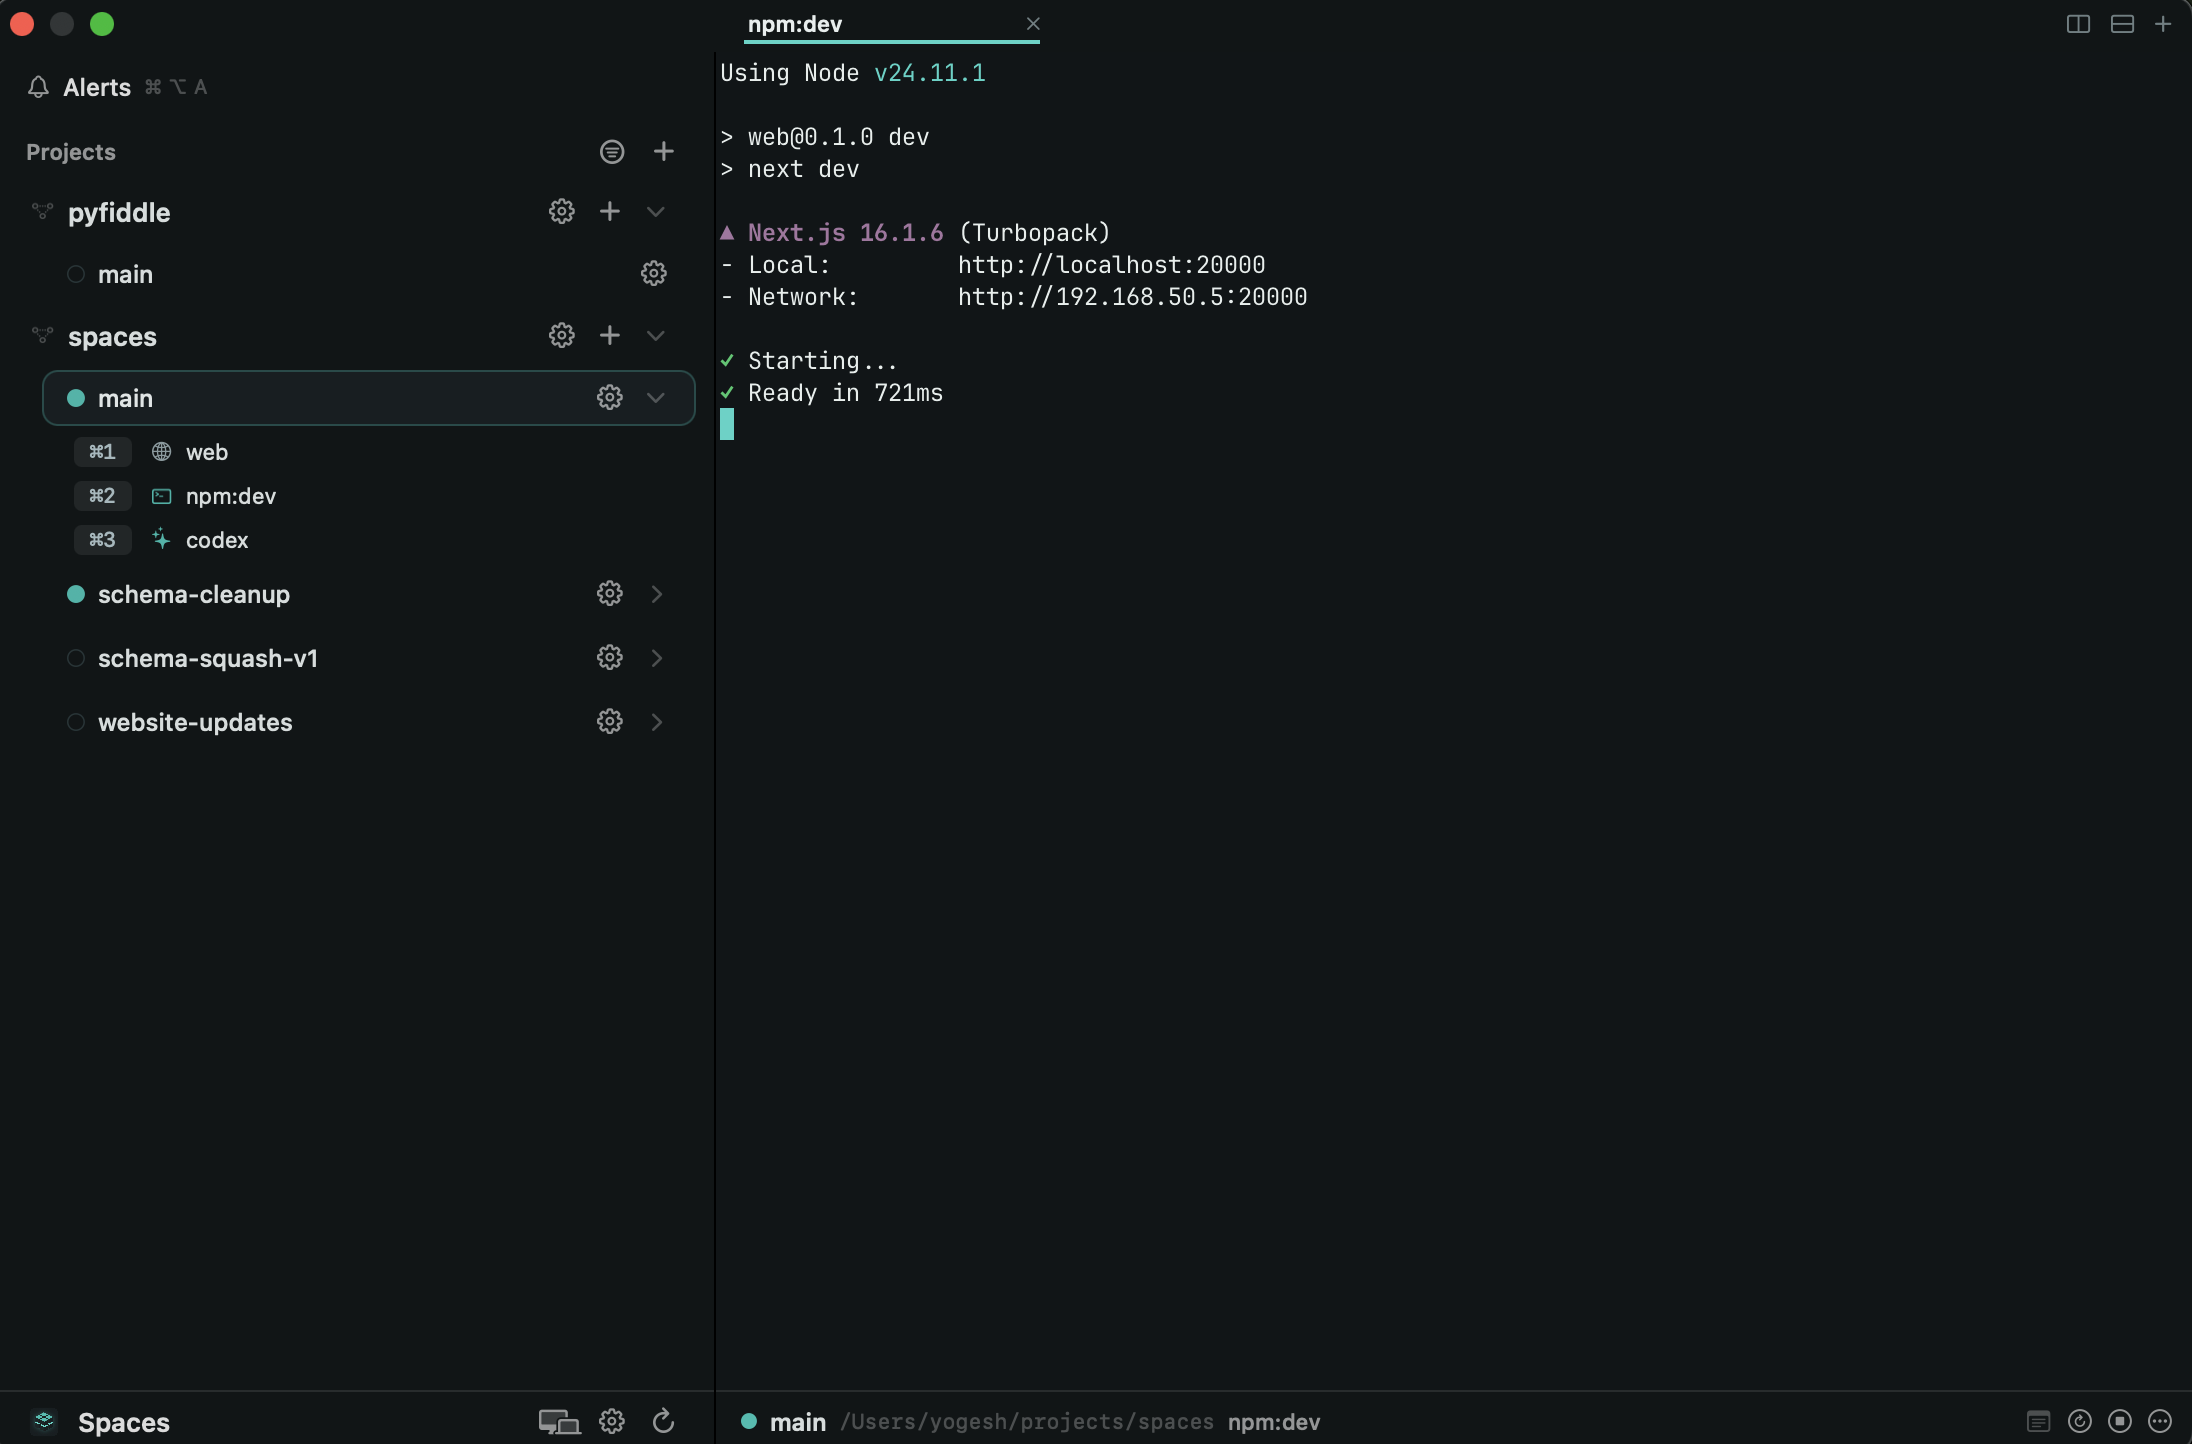
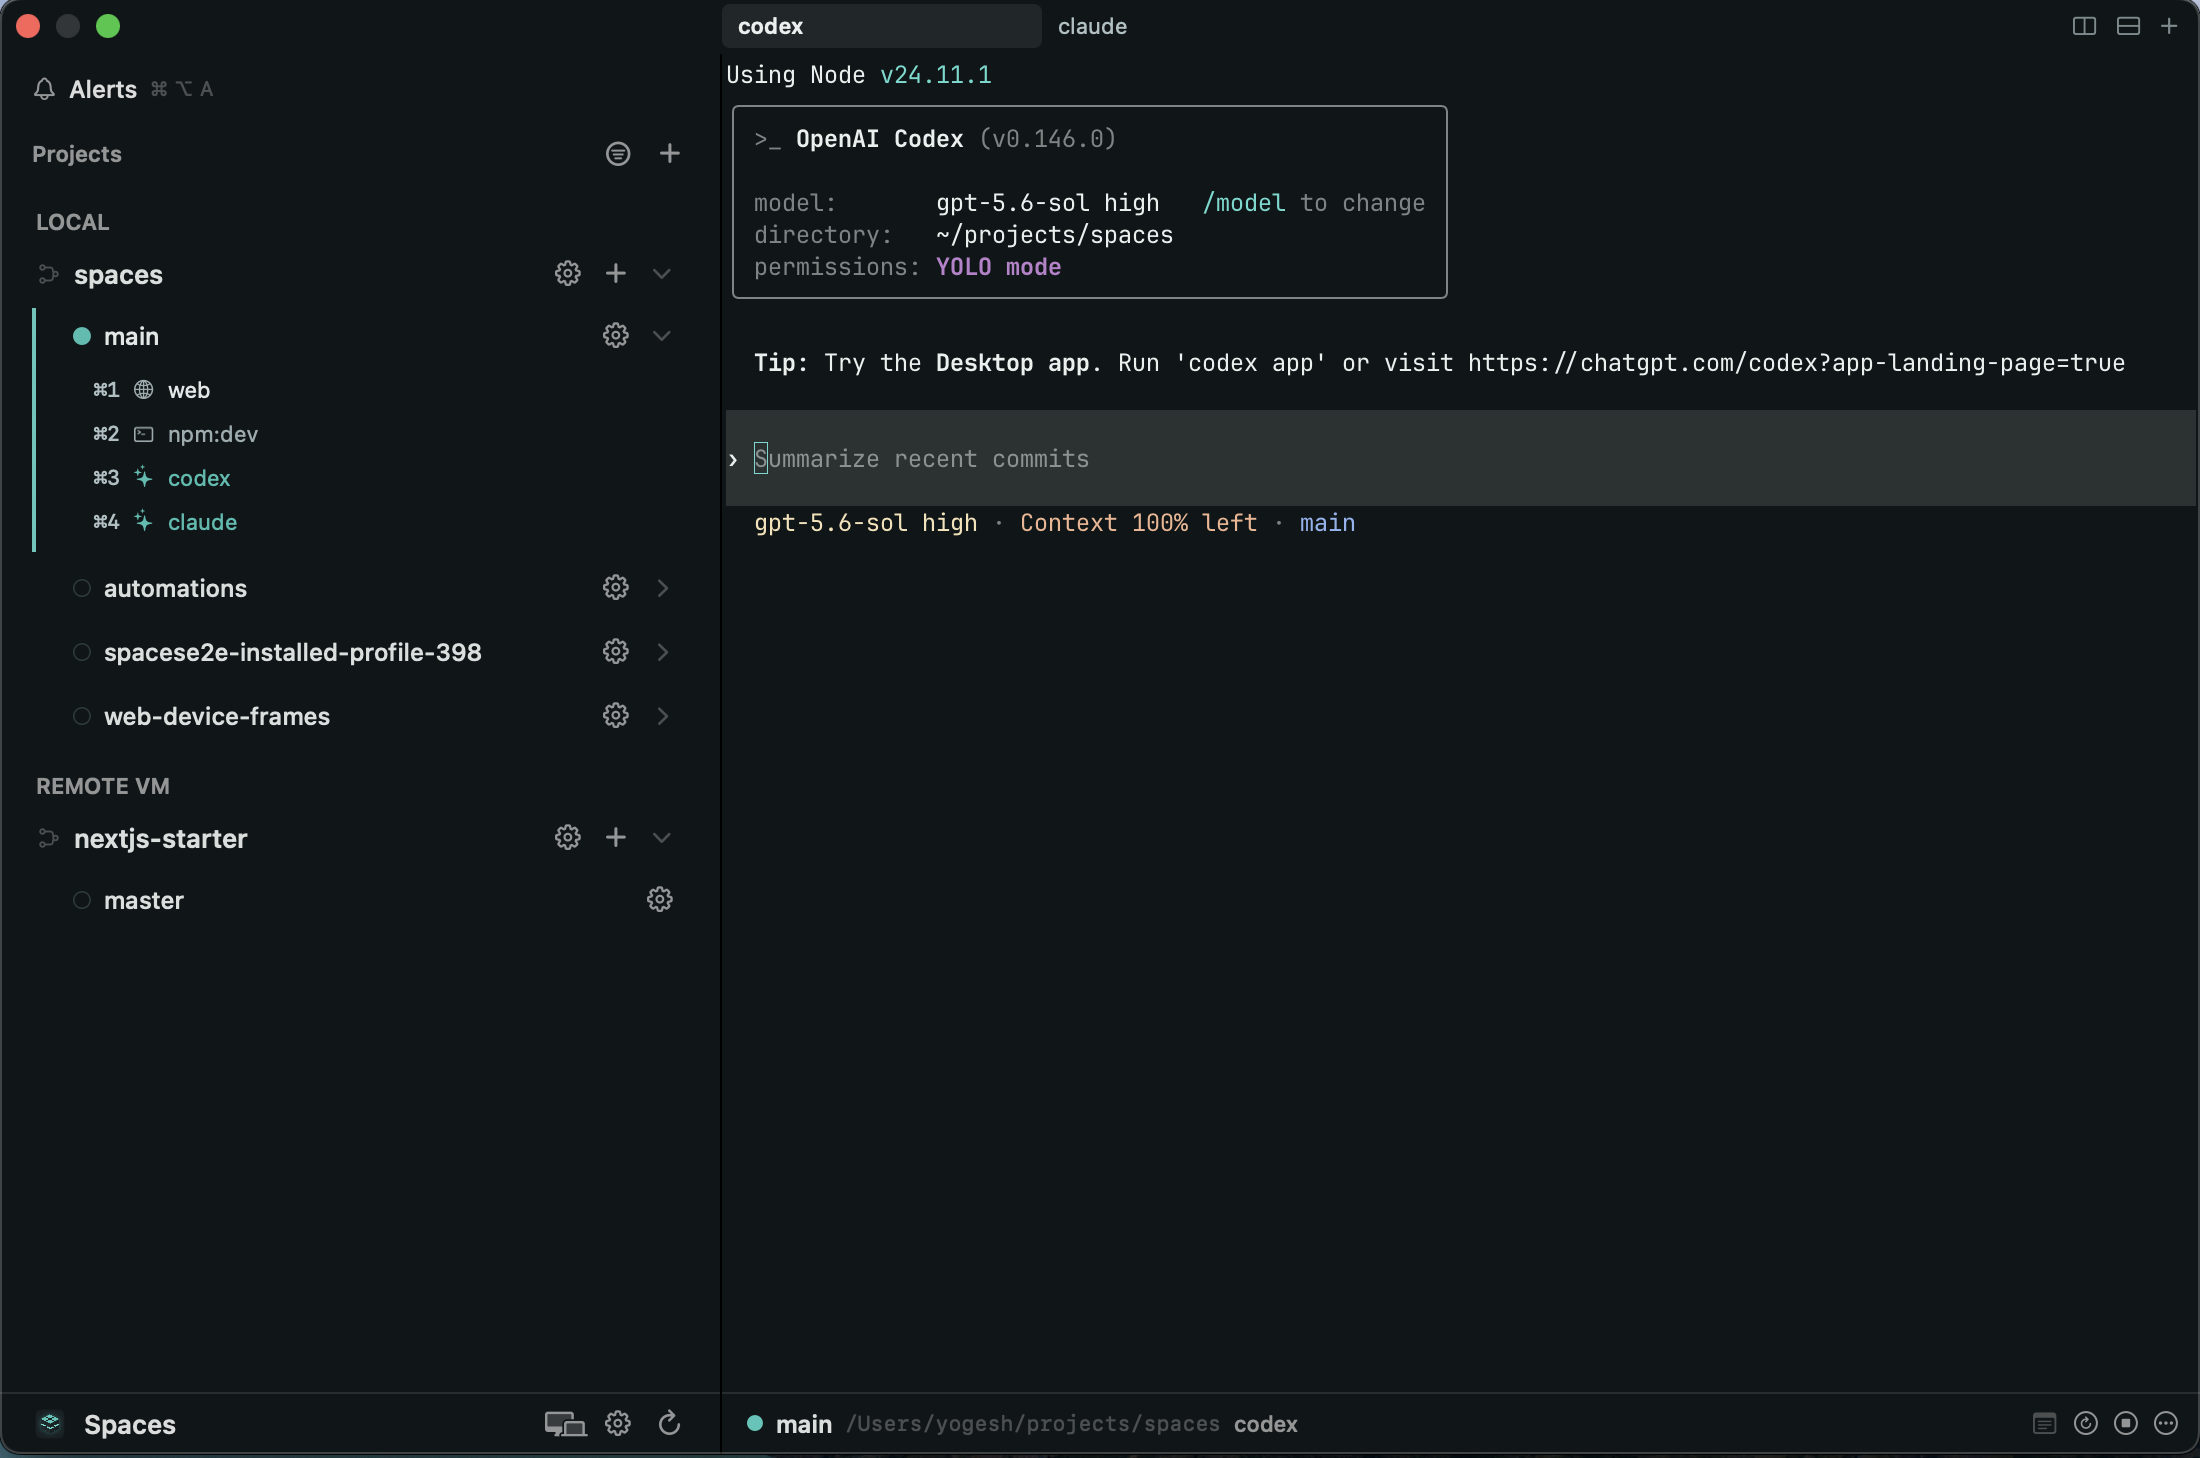
update README images

diff --git a/apps/web/app/page.tsx b/apps/web/app/page.tsx
@@ -825,7 +825,7 @@ export default function HomePage() {
             </p>
           </div>
 
-          <figure className="mt-12 overflow-hidden rounded-sm border border-line/80 bg-surface/70 p-2 md:p-3">
+          {/* <figure className="mt-12 overflow-hidden rounded-sm border border-line/80 bg-surface/70 p-2 md:p-3">
             <video
               src="/media/demo_nav_palette.mp4"
               autoPlay
@@ -834,7 +834,7 @@ export default function HomePage() {
               playsInline
               className="h-auto w-full rounded-sm"
             />
-          </figure>
+          </figure> */}
         </div>
       </section>
 

diff --git a/README.md b/README.md
@@ -4,6 +4,8 @@ Manage parallel coding sessions across all of your devices
 
 [Download](https://github.com/yogesh-dhande/spaces/releases/latest) · [Website](https://usespaces.dev) · [Docs](https://usespaces.dev/docs)
 
+<p align="center"><img src="docs/media/hero.png" width="620" alt="The iOS app's workspace list next to a live agent terminal session"></p>
+
 ## Features
 
 - **Projects and workspaces** — a project is any directory, Git or not; a workspace is one feature, branch, or experiment inside it, backed by a Git worktree or a separate clone. Keeps parallel work separate instead of stashing and switching branches in one checkout.
@@ -15,12 +17,14 @@ Manage parallel coding sessions across all of your devices
 - **Caddy reverse proxy** — a bundled proxy serves every service at a stable URL like `http://api.my-branch.localhost:7391`. One address per service that never changes, and a separate cookie jar per workspace so logins don't collide across branches.
 - **Remote machines** — pair with a Mac or Ubuntu machine and drive its workspaces, terminals, and processes from your laptop. Sessions run on the remote daemon and survive app quits.
 - **iPhone control** — the iOS client pairs by QR code and attaches to any live terminal session. Check on a long-running agent or process away from your desk.
+<p align="center"><img src="docs/media/readme-ios.png" width="620" alt="The iOS app's workspace list next to a live agent terminal session"></p>
 - **CLI** — [`spaces`](https://usespaces.dev/docs/cli) cli drives projects, workspaces, and terminal sessions from a shell. Scriptable, and the way coding agents report status.
 - **MCP server** — [`spaces mcp`](https://usespaces.dev/docs/mcp) exposes projects, workspaces, and terminals as tools. A coding agent can inspect and drive Spaces directly.
 - **Keyboard shortcuts** — focus and cycle windows scoped to the current workspace. Navigation stays inside the work you're on.
 - **Global command palette** — `⌘⌥-` jumps to any window in any workspace. One key to reach anything without hunting through Mission Control.
+<p align="center"><img src="apps/web/public/media/palette.png" width="620" alt="The iOS app's workspace list next to a live agent terminal session"></p>
 
-<p align="center"><img src="docs/media/readme-ios.png" width="620" alt="The iOS app's workspace list next to a live agent terminal session"></p>
+
 
 ## Requirements
 
